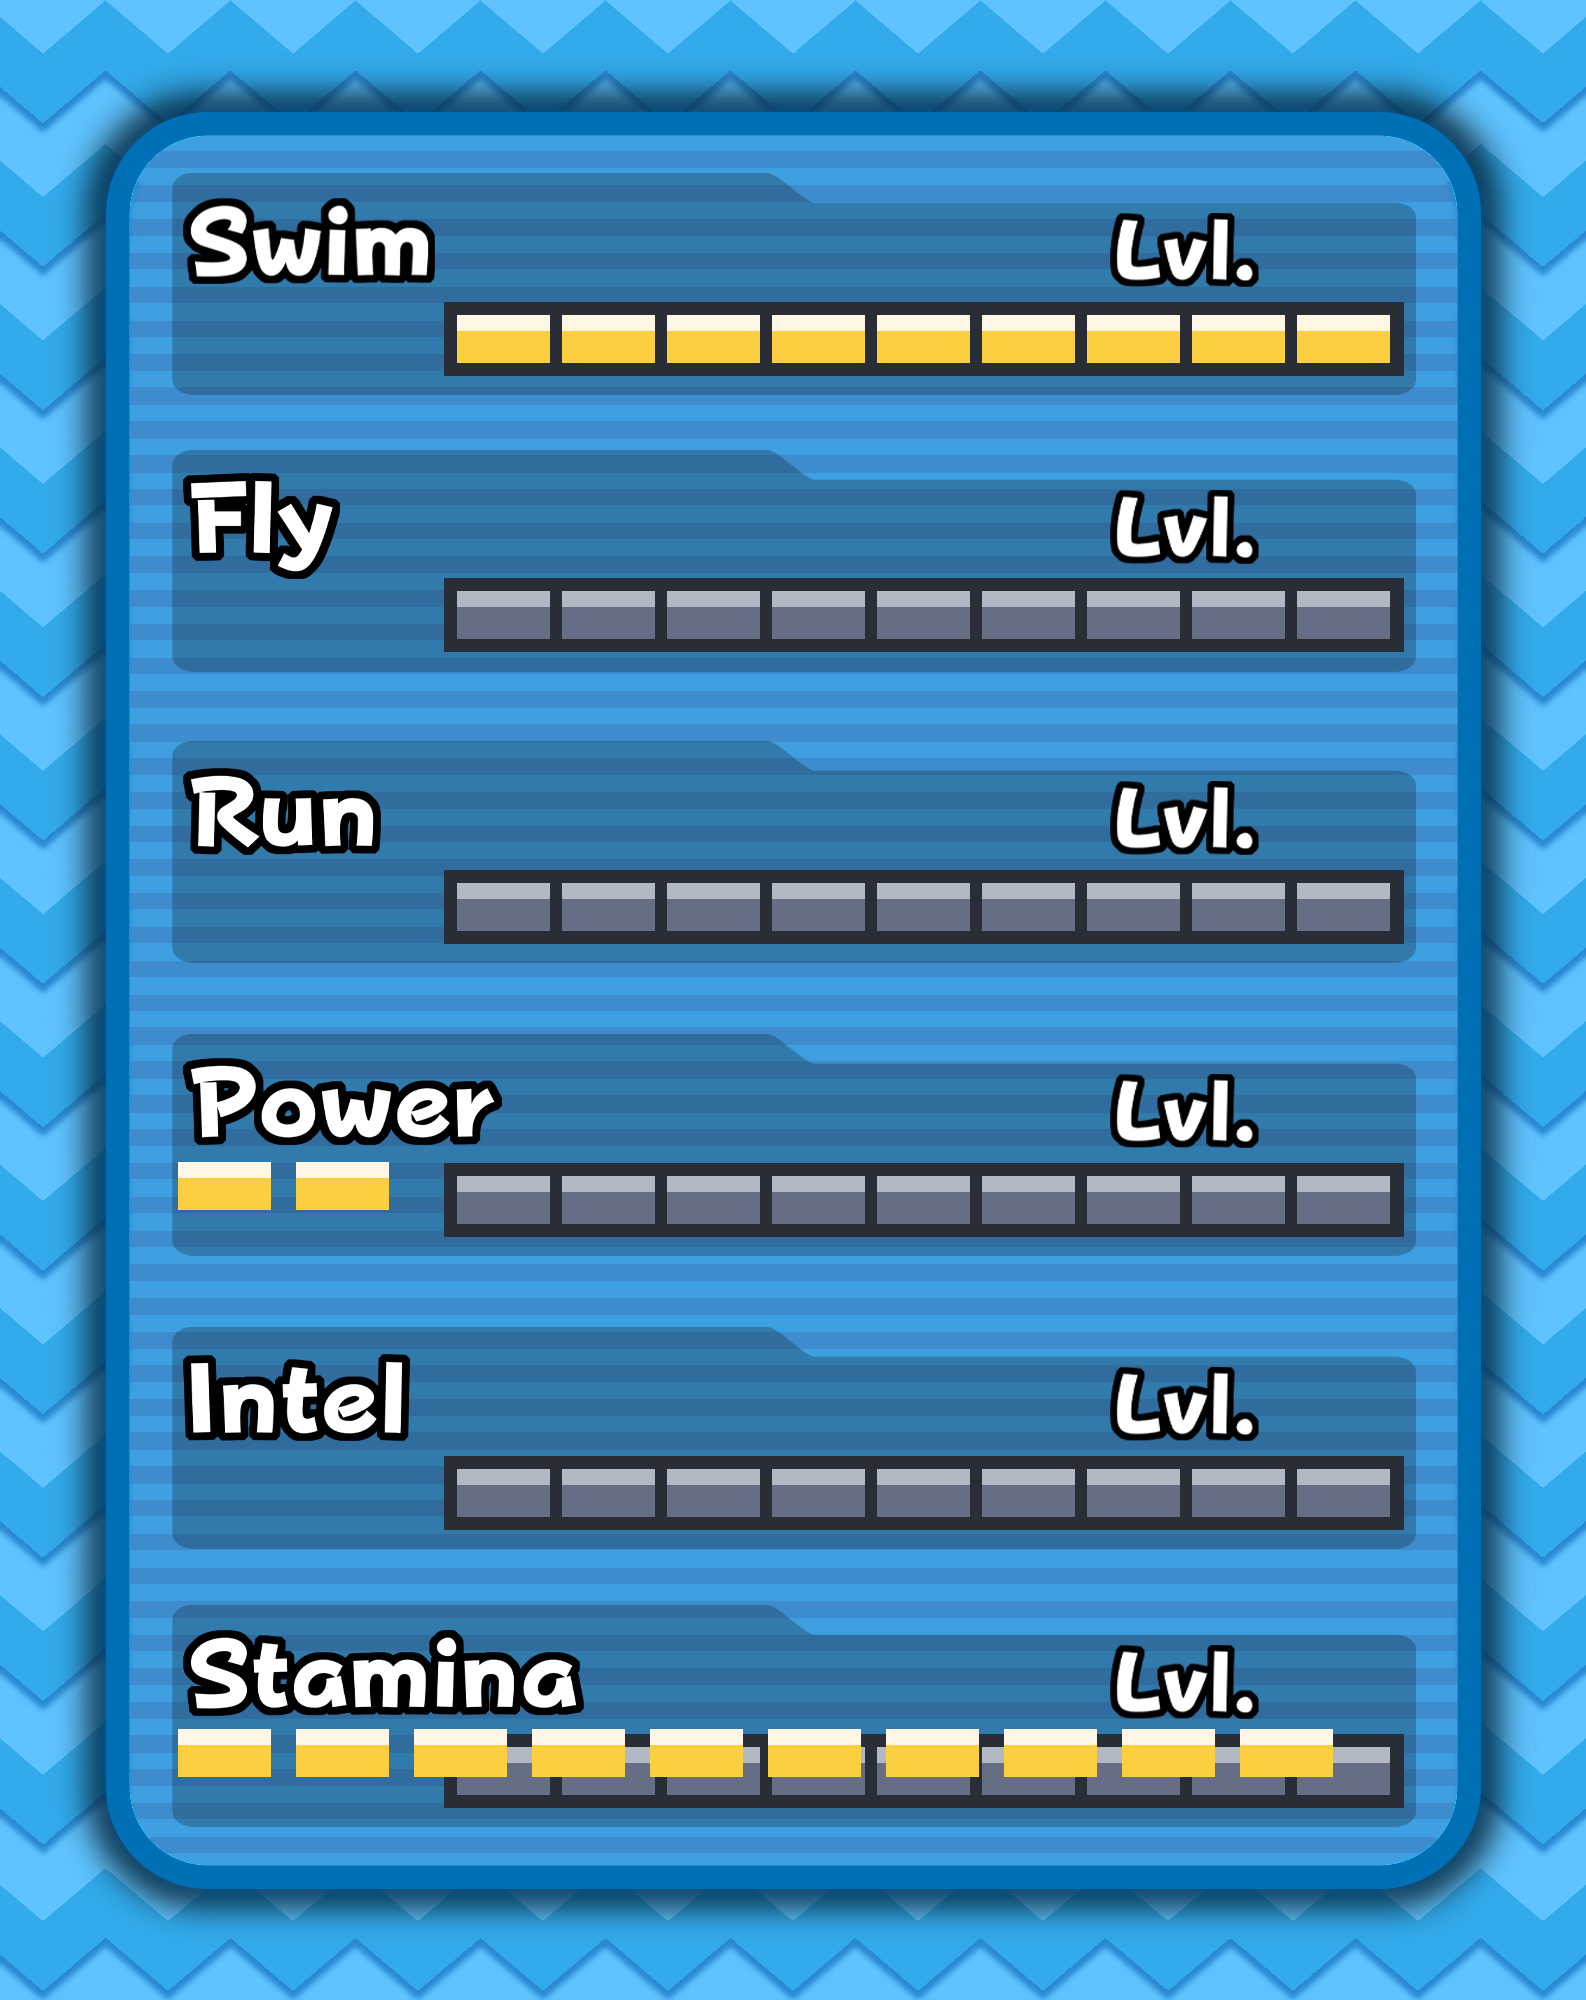
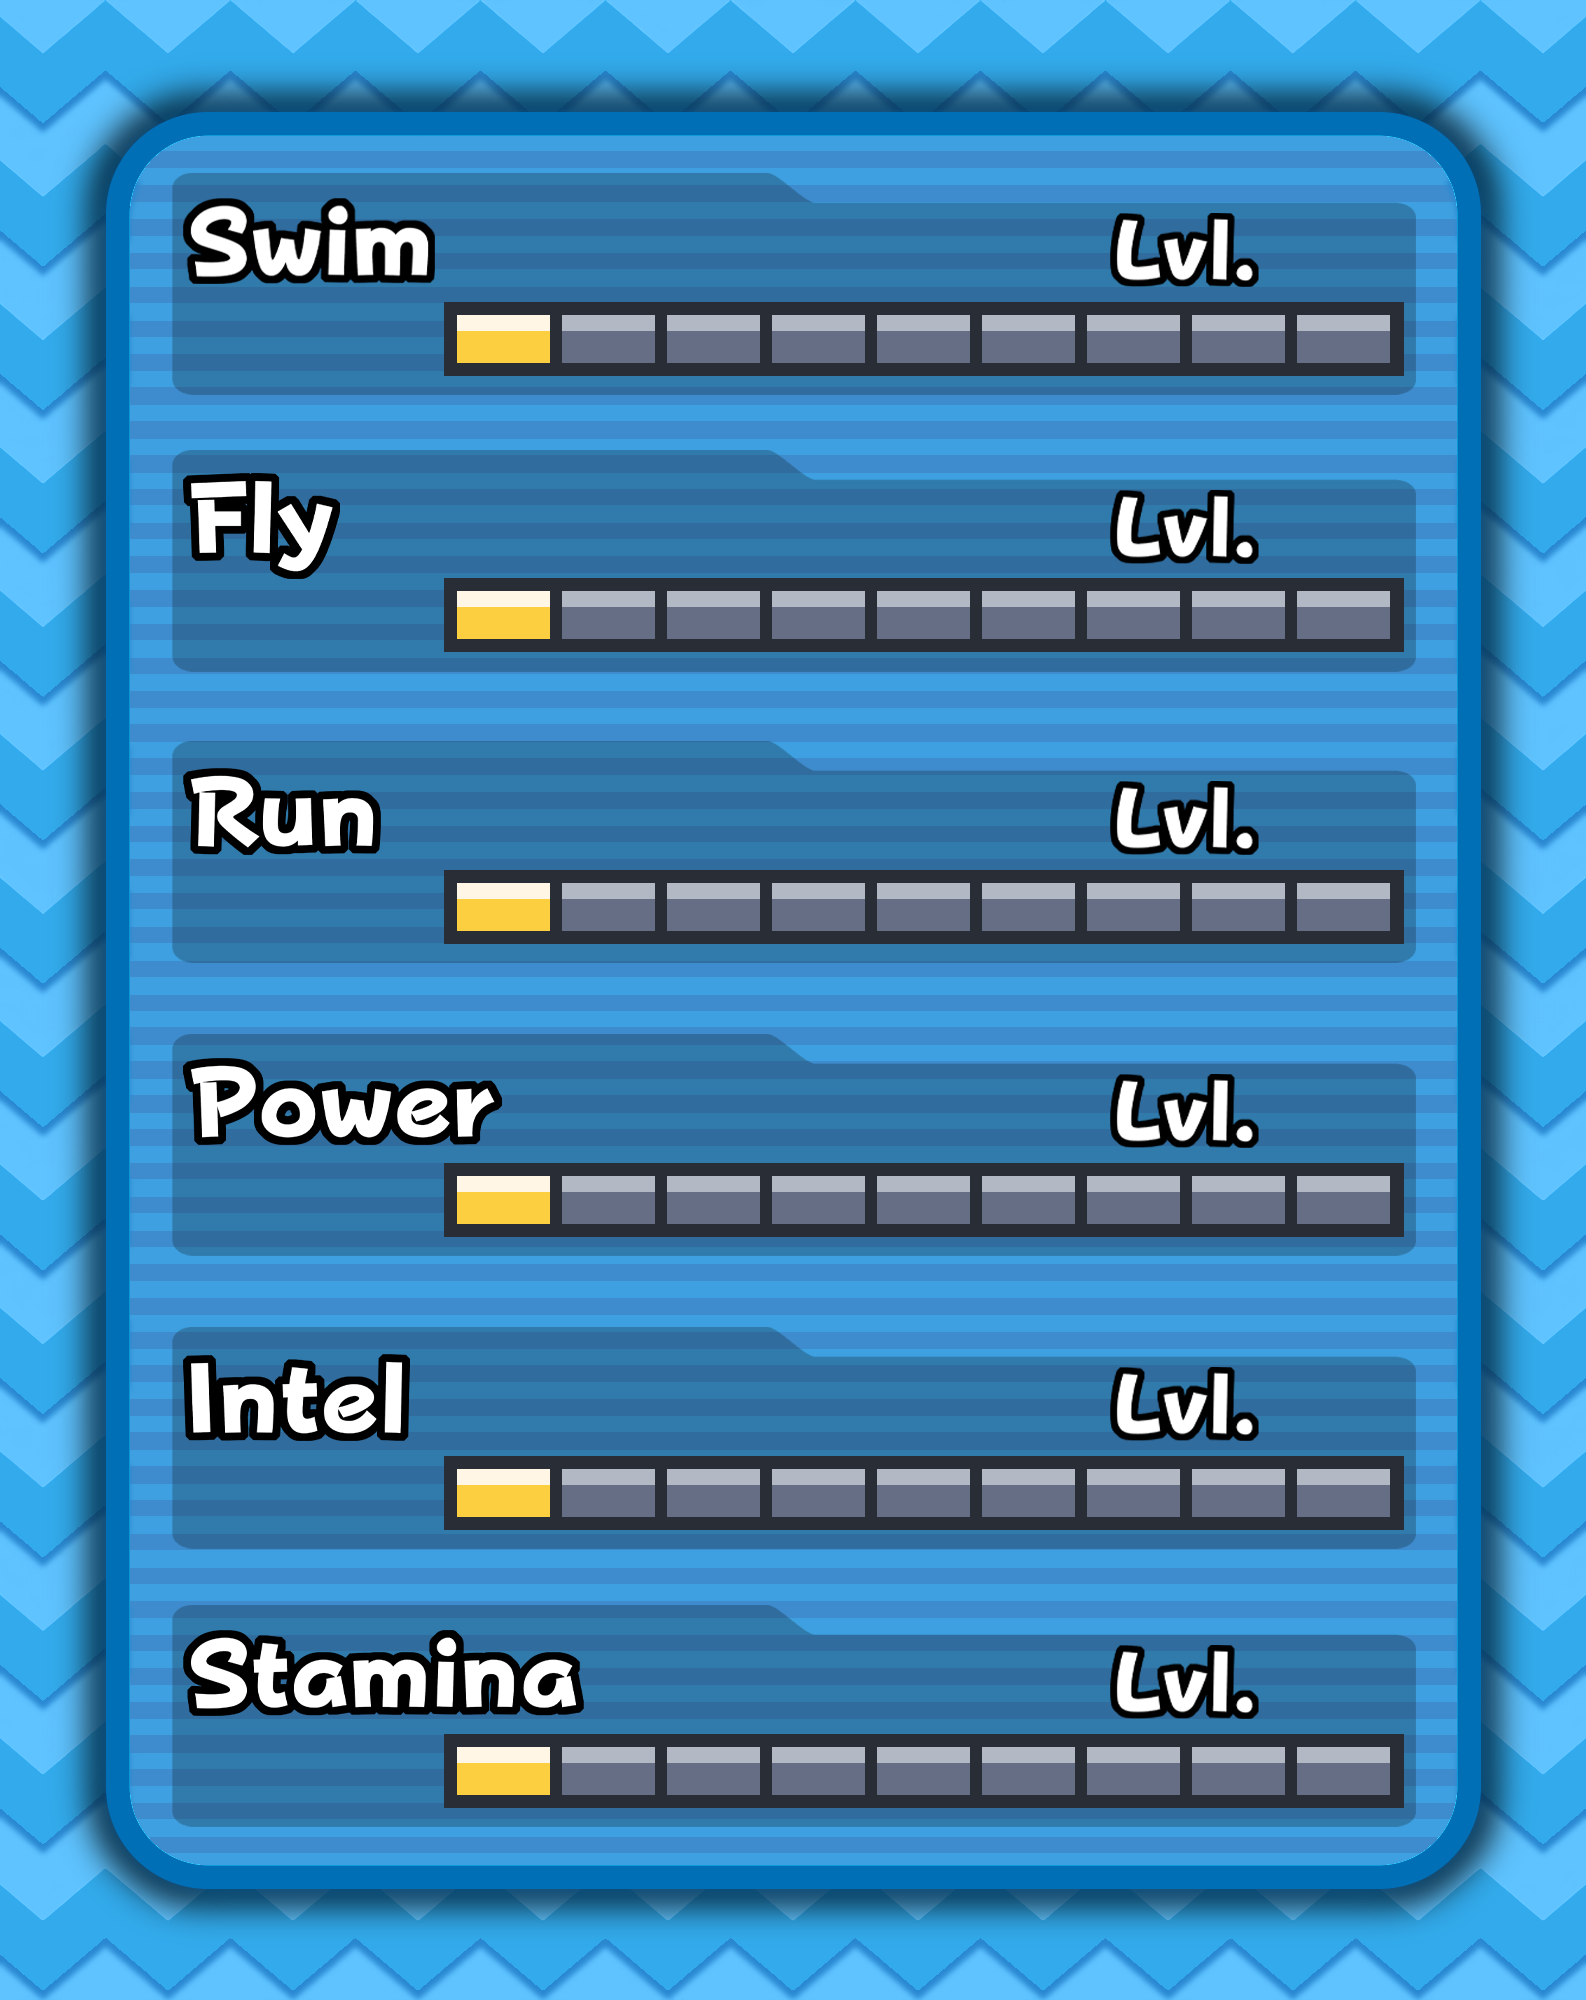
chao.py: Updated stats for chao, replacing 'HP' with 'Intel'
generator.py: Refactored paste_image method to handle intel ticks instead of hp ticks in generated image

output_image.png: Binary file diff - no meaningful commit message

diff --git a/src/cogs/generator.py b/src/cogs/generator.py
@@ -7,7 +7,7 @@ class Generator(commands.Cog):
         self.bot = bot
 
     @staticmethod
-    def paste_image(template_path, overlay_path, output_path, tick_positions, power_ticks, swim_ticks, stamina_ticks, fly_ticks, run_ticks, hp_ticks):
+    def paste_image(template_path, overlay_path, output_path, tick_positions, power_ticks, swim_ticks, stamina_ticks, fly_ticks, run_ticks, intel_ticks):
         template = Image.open(template_path)
         overlay = Image.open(overlay_path)
 
@@ -22,16 +22,16 @@ class Generator(commands.Cog):
                 position = (x_position, start_position[1])  # Same y-axis
                 template.paste(overlay, position, overlay)
 
-        # Paste power, swim, stamina, fly, run, and hp ticks
-        for position, ticks, spacing in zip(tick_positions, [power_ticks, swim_ticks, stamina_ticks, fly_ticks, run_ticks, hp_ticks], [118, 105, 118, 118, 118, 118]):
+        # Paste power, swim, stamina, fly, run, and intel ticks
+        for position, ticks, spacing in zip(tick_positions, [power_ticks, swim_ticks, stamina_ticks, fly_ticks, run_ticks, intel_ticks], [104, 104, 104, 104, 104, 104]):
             paste_ticks(position, ticks, spacing)
 
         template.save(output_path)
 
     @commands.command()
-    async def generate_image(self, ctx, chao_name, power_ticks=None, swim_ticks=None, stamina_ticks=None, fly_ticks=None, run_ticks=None, hp_ticks=None):
+    async def generate_image(self, ctx, chao_name, power_ticks=None, swim_ticks=None, stamina_ticks=None, fly_ticks=None, run_ticks=None, intel_ticks=None):
         # If ticks are None, fetch them from the database
-        if any(tick is None for tick in [power_ticks, swim_ticks, stamina_ticks, fly_ticks, run_ticks, hp_ticks]):
+        if any(tick is None for tick in [power_ticks, swim_ticks, stamina_ticks, fly_ticks, run_ticks, intel_ticks]):
             chao_list = await self.bot.cogs['Database'].get_chao(ctx.guild.id, ctx.author.id)
             chao_to_view = next((chao for chao in chao_list if chao['name'] == chao_name), None)
             if chao_to_view is None:
@@ -42,18 +42,18 @@ class Generator(commands.Cog):
             stamina_ticks = chao_to_view['stamina_ticks']
             fly_ticks = chao_to_view['fly_ticks']
             run_ticks = chao_to_view['run_ticks']
-            hp_ticks = chao_to_view['hp_ticks']  # Get the hp ticks from the database
+            intel_ticks = chao_to_view['intel_ticks']  # Get the intel ticks from the database
 
         # Paths to the images
         template_path = '../assets/stats_template.png'
         overlay_path = '../assets/tick_filled.png'
         output_path = './output_image.png'
 
-        # Starting positions for power, swim, stamina, fly, run, and hp ticks
-        tick_positions = [(178, 1162), (457, 315), (178, 1448), (178, 625), (178, 890), (178, 1729)]
+        # Starting positions for power, swim, stamina, fly, run, and intel ticks
+        tick_positions = [(457, 1176), (457, 315), (457, 1747), (457, 591), (457, 883), (457, 1469)]
 
         # Call the function
-        self.paste_image(template_path, overlay_path, output_path, tick_positions, power_ticks, swim_ticks, stamina_ticks, fly_ticks, run_ticks, hp_ticks)
+        self.paste_image(template_path, overlay_path, output_path, tick_positions, power_ticks, swim_ticks, stamina_ticks, fly_ticks, run_ticks, intel_ticks)
 
         # Create an embed
         embed = discord.Embed(

diff --git a/src/cogs/chao.py b/src/cogs/chao.py
@@ -24,7 +24,7 @@ class Chao(commands.Cog):
             chao_name = self.bot.cogs['FortuneTeller'].generate_chao_name()
         
         grades = ['F', 'E', 'D', 'C', 'B', 'A', 'S']
-        stats = ['Swim', 'Fly', 'Run', 'Power', 'Stamina', 'HP', 'Smart']
+        stats = ['Swim', 'Fly', 'Run', 'Power', 'Intel', 'Stamina']
         chao = {
             'name': chao_name,
             'color': color,
@@ -115,8 +115,8 @@ class Chao(commands.Cog):
             'run fruit': 'run_ticks',
             'swim fruit': 'swim_ticks',
             'fly fruit': 'fly_ticks',
-            'stamina fruit': 'stamina_ticks',
-            'smart fruit': 'smart_ticks'  # smart fruit added
+            'garden fruit': 'stamina_ticks',
+            'smart fruit': 'intel_ticks'  # smart fruit added
         }
 
         stat_to_update = item_stat_effects.get(item_name.lower(), None)
